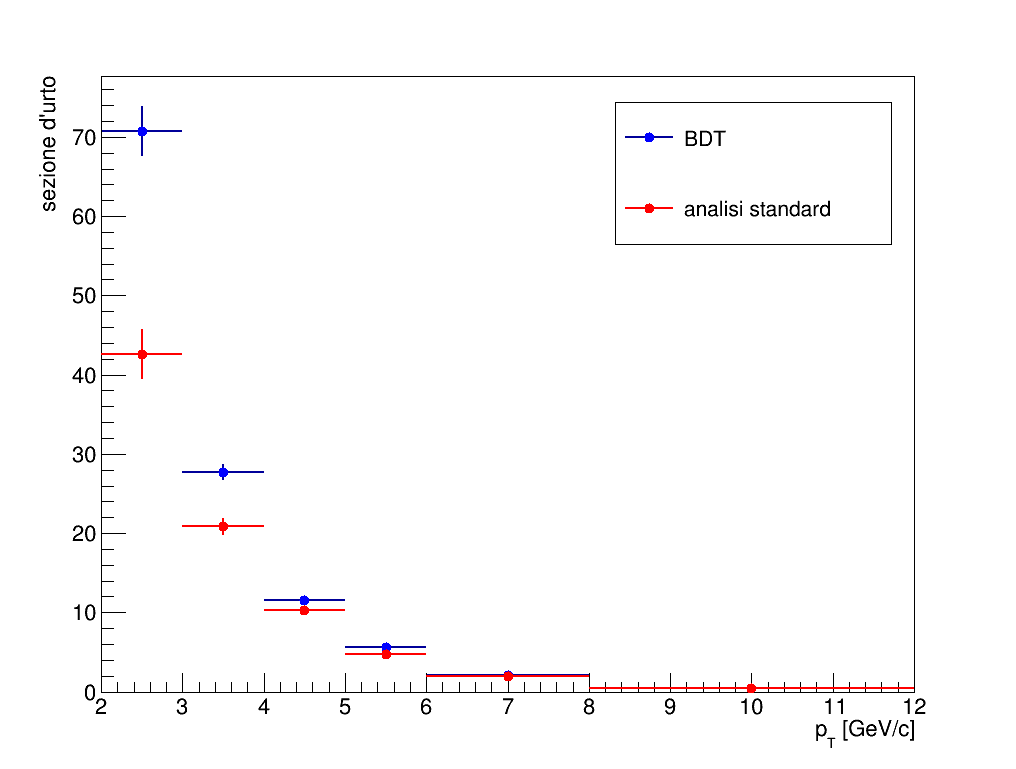
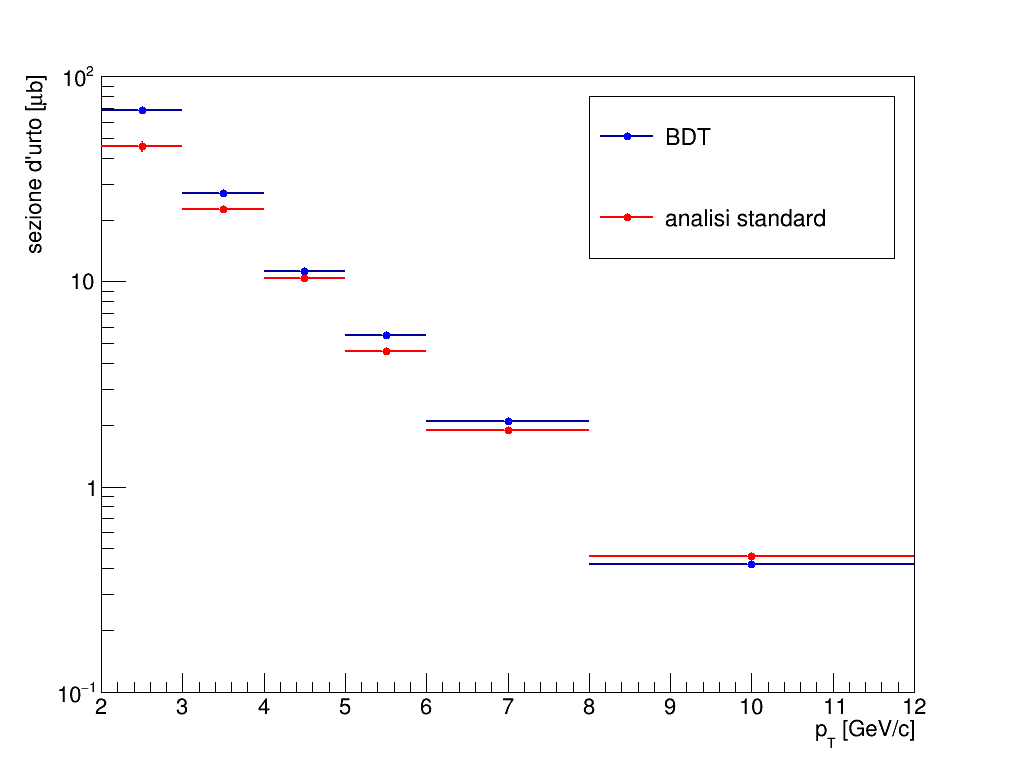
Updates from Overleaf

diff --git a/training&testing/training&testing.tex b/training&testing/training&testing.tex
@@ -4,17 +4,17 @@
 
 \section{Training}
 
-In questa sezione verr\`a descritta la fase di training del metodo di analisi multivariata del Boosted Decisione Tree (BDT), in particolare: il campione di dati che \`e stato utilizzato per il training, le variabili discriminatorie utilizzate come input per il BDT per separare il segnale dal fondo e la scelta dei parametri di configurazione del BDT. 
+In questa sezione verr\`a descritta la fase di training del metodo di analisi multivariata del Boosted Decision Tree (BDT), in particolare: il campione di dati che \`e stato utilizzato per il training, le variabili discriminatorie utilizzate come input per il BDT per separare il segnale dal fondo e la scelta dei parametri di configurazione del BDT. 
 
 \subsection{Campione di dati per il training}
 Come detto nel capitolo precedente per la fase di training del BDT è necessario un insieme di dati di cui sia nota la distinzione tra segnale e fondo. 
 
-Per il segnale è stato utilizzato un campione di dati ottenuto da una simulazione Monte Carlo,  in cui vengono generate collisioni protone-protone all'energia del centro di massa di 5~TeV e i mesoni D*+ prodotti vengono forzati a decadere nel canale di decadimento di interesse. In questo modo \`e certa l'identi\`a della candidata $D^{*+}$.
+Per il segnale è stato utilizzato un campione di dati ottenuto da una simulazione Monte Carlo,  in cui vengono generate collisioni protone-protone all'energia del centro di massa di 5~TeV e i mesoni $D^{*+}$ prodotti vengono forzati a decadere nel canale di decadimento di interesse. In questo modo \`e certa l'identi\`a della candidata $D^{*+}$.
 \\Al contrario, il campione di candidate per il fondo combinatoriale \`e stato selezionato dai dati raccolti da Alice\cite{dati_ALICE} (collisioni protone-protone a 5~TeV nel centro di massa) considerando candidate con valori della differenza tra la massa invariante della $D^{*+}$ e della $D^0$: $\Delta M > 147.8$ MeV/$c^2$  e $\Delta M < 143.0$ MeV/$c^2$, cio\`e candidate a destra e a sinistra del picco a 145 MeV/$c^2$ nella distribuzione di $\Delta M$ mostrata in figura \ref{fig:grafmassDstar2}. In questo modo si considerano i dati a circa $4 \sigma$ della Gaussiana che descrive il picco del segnale e si pu\`o essere sicuri di non includere anche parte del segnale.
-\\Si \`e scelto di utilizzare i dati stessi invece che una simulazione Monte Carlo in quanto \`e importante che il campione per il training sia il pi\`u possibile simile al campione da utilizzare. Il fondo preso dal Monte Carlo presenta delle differenze nella distribuzione delle variabili discriminatorie tali da non permettere una buona separazione tra segnale e fondo.
+\\Si \`e scelto di utilizzare i dati stessi invece che una simulazione Monte Carlo in quanto \`e importante che il campione per il training sia il pi\`u possibile simile al campione da utilizzare. Il fondo preso dal Monte Carlo, infatti, presenta delle differenze nella distribuzione delle variabili discriminatorie tali da non permettere una buona separazione tra segnale e fondo.
 
 L'analisi \`e stata svolta in diversi intervalli di impulso trasverso ($p_T$) delle candidate $D^{*+}$. L'impulso trasverso \`e l'impulso nella direzione perpendicolare ai fasci di protoni incidenti. Gli intervalli considerati sono [0,1], [1,2], [2,3], [3,4], [4,5], [5,6], [6,8], [8,12], [12,16], [16,24] misurati in GeV/c. 
-\\In figura \ref{fig:dati_training} è riportata la distribuzione di massa invariante $\Delta M = M(K,\pi,\pi)-M(K,\pi))$ dei campioni di segnale e fondo utilizzati per il training del BDT. 
+\\In figura \ref{fig:dati_training} è riportata la distribuzione di massa invariante $\Delta M = M(K,\pi,\pi)-M(K,\pi))$ dei campioni di segnale e fondo utilizzati per il training del BDT per l'intervallo di $p_T$ [3,4] GeV/c a titolo esemplificativo. 
 
     \begin{figure}[htbp] 
         \centering
@@ -43,7 +43,7 @@ La tabella \ref{Tab:dati_training} riporta la quantità di dati per il segnale e
 		\end{tabular}
 	\end{table}
 	
-Come \`e possibile vedere dalla tabella, il numero di eventi di fondo selezionati diminuisce al crescere del $p_T$. Questo e' dovuto ad una naturale diminuzione del fondo combinatoriale al crescere del $p_T$ della candidata $D^{*+}$. A causa del numero limitato di eventi di fondo disponibili per il training del modello, non e' stato possibile estendere l'analisi ad intervalli di impulso pi\`u alto. Infatti, come si vede dalla tabella, gi\`a nell'intervallo di $p_T&$ 8-12 GeV/c sono disponibili solo 900 eventi di fondo e solo 500 eventi di fondo erano disponibili per $p_T$ > 12 GeV/c. Infine, non e' stato possibile estendere l'analisi a $p_T < 1$ GeV/c perch\`e le D*+ con impulso $p_T < 1$ GeV/c erano state rigettate nel Monte Carlo considerato.
+Come \`e possibile vedere dalla tabella, il numero di eventi di fondo selezionati diminuisce al crescere del $p_T$. Questo \`e dovuto ad una naturale diminuzione del fondo combinatoriale al crescere del $p_T$ della candidata $D^{*+}$. A causa del numero limitato di eventi di fondo disponibili per il training del modello, non e' stato possibile estendere l'analisi ad intervalli di impulso pi\`u alto. Infatti, come si vede dalla tabella, gi\`a nell'intervallo di $p_T$ [8,12] GeV/c sono disponibili solo 900 eventi di fondo e solo 500 eventi di fondo erano disponibili per $p_T$ > 12 GeV/c. Infine, non e' stato possibile estendere l'analisi a $p_T < 1$ GeV/c perch\`e le $D^{*+}$ con impulso $p_T < 1$ GeV/c erano state rigettate nel Monte Carlo considerato.
 
 \subsection{Variabili discriminatorie per il training}
 L'analisi svolta in questa tesi \`e basata sullo studio del decadimento $D^{*+} \rightarrow D^0( \rightarrow K^- \pi^+)  \pi^+ $ attraverso l'utilizzo di metodi di analisi multivariati, basati sull'analisi combinata di pi\`u variabili, definite variabili discriminatorie. %In particolare si \`e usato il metodo del Boosting Decision Tree implementato nel TMVA di Root. 
@@ -51,9 +51,9 @@ L'analisi svolta in questa tesi \`e basata sullo studio del decadimento $D^{*+} 
  \item la distanza minima tra la traiettoria del Kaone $K^-$  e il vertice primario (PV) (\textbf{d0K});
                 \item la distanza minima tra la traiettoria del $\pi^+$ (prodotto dal decadimento della $D^0$) e il PV (\textbf{d0Pi});
             \item la distanza minima tra le traiettorie del $K^-$ e del $\pi^+$ (\textbf{DCA});
-            \item il coseno dell'angolo di puntamento, ovvero l'angolo tra la retta congiungente il PV e il vertice secondario (SV) e la direzione del $p_T$ della $D^{*+}$ (\textbf{cosThetaPoint});
+            \item il coseno dell'angolo di puntamento, ovvero l'angolo tra la retta congiungente il vertice primario (PV) e il vertice secondario (SV) e la direzione del $p_T$ della $D^{*+}$ (\textbf{cosThetaPoint})
             e la sua proiezione sul piano perpendicolare alla direzione dei fasci di protoni (\textbf{cosThetaPointXY});
-            \item la lunghezza di decadimento delle candidate $D^0$, ovvero la distanza di volo della $D^0$, normalizzata per il suo errore (\textbf{NormDecayLenght}) e la  proiezione sul piano perpendicolare alla direzione del fascio (\textbf{NormDecayLenghtXY});
+            \item la lunghezza di decadimento delle candidate $D^0$, ovvero la distanza di volo del mesone $D^0$, normalizzata per il suo errore (\textbf{NormDecayLenght}) e la  proiezione sul piano perpendicolare alla direzione del fascio (\textbf{NormDecayLenghtXY});
             \item il prodotto delle distanze minime tra le traiettorie del  $K^-$ e del $\pi^+$ dal PV (\textbf{d0d0});
             \item l'impulso del $\pi^+_{soft}$ (prodotto dal decadimento della $D^{*+}$) nella direzione perpendicolare a quella del fascio (\textbf{softPiPt})
             \item l'impulso del $\pi^+$ (prodotto dal decadimento della $D^0$) nella direzione perpendicolare a quella del fascio (\textbf{pTpi});
@@ -82,14 +82,14 @@ I grafici in figura \ref{fig:variabili_discr} riportano le distribuzioni di quat
 % \iffalse
 %    \fi 
     
-    Tra le variabili discriminatorie sono state introdotte le variabili legate all'identificazione delle particelle (PID) tramite la perdita di energia per ionizzazione $\frac{dE}{dx}$ nella TPC e tramite la misura del tempo di volo dal punto in cui si è formata la particella al rivelatore Time-Of-Flight (TOF).
+    Tra le variabili discriminatorie sono state introdotte le variabili legate all'identificazione delle particelle (PID) tramite la perdita di energia per ionizzazione $\frac{dE}{dx}$ nella Time-Projection-Chamber (TPC) e tramite la misura del tempo di volo dal punto in cui si è formata la particella al rivelatore Time-Of-Flight (TOF).
     \\In figura \ref{fig:BBnellaTPC} è riportata la distribuzione della perdita di energia per ionizzazione misurata dal rivelatore TPC per le particelle cariche prodotte in collisioni protone-protone con energia nel centro di massa $\sqrt{s} = 7 $ TeV, che è confrontata con l'andamento teorico determinato dalla curva di Bethe-Bloch per le diverse particelle.
     \\ Le variabili discriminatorie relative alla PID utilizzate sono:
         \begin{enumerate}[resume]
             \item la differenza tra la perdita di energia per ionizzazione misurata dalla TPC e la perdita di energia teorica determinata con la Bethe-Bloch per il $\pi^+$ prodotto dal decadimento della $D^0$: $n\sigma_{(\pi^+,TPC)}/\sigma_{TPC} = (\frac{dE}{dx}\mid_{m, \pi} \ - \ \frac{dE}{dx}\mid_{th, \pi} ) / \sigma_{TPC} \ $ dove $ \ \sigma_{TPC}$ è la risoluzione della Time-Projection-Chamber (\textbf{nSigmaTPCpi})
             \item la differenza tra la perdita di energia per ionizzazione misurata dalla TPC e la perdita di energia teorica data dalla Bethe-Bloch per il $K^-$: $n\sigma_{(K^-,TPC)}/\sigma_{TPC} = (\frac{dE}{dx}\mid_{m,K} \ - \ \frac{dE}{dx}\mid_{th,K} ) / \sigma_{TPC} \ $ (\textbf{nSigmaTPCK})
             \item la differenza tra il tempo di volo misurato dal rivelatore Time-Of-Flight e il tempo di volo teorico per il  $\pi^+$ prodotto dal decadimento della $D^0$: $ n\sigma_{(\pi^+,TOF)}/\sigma_{TOF} = (t_{TOF}\mid_{m,\pi} \ - \ t_{TOF}\mid_{th,\pi}) / \sigma_{TOF} \ $ dove $\sigma_{TOF}$ è la risoluzione del rivelatore Time-Of-Flight (\textbf{nSigmaTOFpi})
-            \item la differenza tra il tempo di volo misurato dal rivelatore Time-Of-Flight e il tempo di volo teorico per il  $K^-$: $n\sigma_{(K^-,TOF)}/\sigma_{TOF} = (t_{TOF}\mid_{m,K} \ - \ t_{TOF}\mid_{th,K})\sigma_{TOF} \ $ (\textbf{nSigmaTOFK})
+            \item la differenza tra il tempo di volo misurato dal rivelatore Time-Of-Flight e il tempo di volo teorico per il  $K^-$: $n\sigma_{(K^-,TOF)}/\sigma_{TOF} = (t_{TOF}\mid_{m,K} \ - \ t_{TOF}\mid_{th,K})/\sigma_{TOF} \ $ (\textbf{nSigmaTOFK})
         \end{enumerate}
     
         
@@ -102,7 +102,7 @@ I grafici in figura \ref{fig:variabili_discr} riportano le distribuzioni di quat
     \end{figure}
    
   
-  \subsection{Valutazione delle Variabili Discriminatorie}
+  \subsection{Valutazione delle variabili discriminatorie}
   
     L'utilizzo di variabili discriminatorie correlate tra loro generalmente peggiora le performance dell'algoritmo di apprendimento artificiale sia per quanto riguarda la capacit\`a di selezionare il segnale, sia per i tempi necessari per il training e l'applicazione dell'algoritmo.  
     \\Si \`e considerata, perci\`o la correlazione lineare tra le variabili discriminatorie utilizzate. In figura \ref{fig:correlazioneIn} \`e riportata la correlazione in percentuale tra tutte le variabili discriminatorie utilizzate nel primo set per il training sia per il segnale che per il fondo.
@@ -118,10 +118,10 @@ I grafici in figura \ref{fig:variabili_discr} riportano le distribuzioni di quat
     
  
     
-    Dalle figure \ref{fig:CorrelazioneF} si vede che la correlazione supera il $50 \%$ per alcune delle variabili. Questo \`e comprensibile se si considera che alcune delle variabili sono strettamente correlate, per esempio la lunghezza di decadimento \`e correlata alla sua proiezione sul piano trasverso. E' stato quindi individuato un insieme di variabili scorrelate da utilizzare per la fase di training come si pu\`o vedere in figura \ref{fig:CorrelazioneF}. Tale insieme comprende variabili topologiche scorrelate tra loro e le variabili relative all'identificazione di particelle. Le uniche variabili che presentano un certo grado di correlazione sono la proiezione della lunghezza di decadimento delle candidate $D^0$ sul piano trasverso alla direzione del fascio (NormDecaYLenghtXY), il prodotto delle distanze minime tra le traiettorie del $k^-$ e del $\pi^+$ (d0d0) e la distanza minima di approccio (DCA) ma si è ritenuta accettabile questa correlazione. 
+    Dalle figure \ref{fig:CorrelazioneF} si vede che la correlazione supera il $50 \%$ per alcune delle variabili. Questo \`e comprensibile se si considera che alcune delle variabili sono strettamente correlate, per esempio la lunghezza di decadimento \`e correlata alla sua proiezione sul piano trasverso. E' stato quindi individuato un insieme di variabili scorrelate da utilizzare per la fase di training come si pu\`o vedere in figura \ref{fig:CorrelazioneF}. Tale insieme comprende variabili topologiche scorrelate tra loro e le variabili relative all'identificazione di particelle. Le uniche variabili che presentano un certo grado di correlazione sono la proiezione della lunghezza di decadimento delle candidate $D^0$ sul piano trasverso alla direzione del fascio (NormDecaYLenghtXY), il prodotto delle distanze minime tra le traiettorie del $k^-$ e del $\pi^+$ e il PV (d0d0) e la distanza minima di approccio (DCA), ma si è ritenuta accettabile questa correlazione. 
  
-    \begin{figure}
-       \centering
+    \begin{figure}[h]
+       \centering 
        \includegraphics[width=0.48\textwidth]{training&testing/CorrelationMatrixS.png}
         \includegraphics[width=0.48\textwidth]{training&testing/CorrelationMatrixB.png}
        \caption{Correlazione lineare in percentuale tra le variabili discriminatorie del secondo set per il training del segnale e per il training del fondo.}
@@ -181,7 +181,7 @@ Per determinare la migliore configurazione del BDT (in termini di accuratezza de
     Si è ritenuto che l'opzione migliore, considerando sia il tempo necessario per l'analisi dati sia le performance dell'algoritmo, fosse di considerare alberi con profondità massima di 3 nell'analisi svolta in questa tesi.
     \end{itemize}
 
-\section{I risultati del Training}
+\subsection{I risultati del Training}
 Una volta identificato il campione da usare come segnale e fondo, le variabili discriminatorie scorrelate da fornire come input al modello e la configurazione del BDT si è proceduto con la fase di training. 
 \\L'algoritmo di analisi multivariata analizza le variabili discriminatorie per fornire un unico valore di output che permette di separare il segnale dal fondo, che nel resto del capitolo sarà chiamato \textit{BDT response}. Il grafico in figura \ref{fig:BDTresponse} mostra la distribuzione del BDT response calcolato per il campione di segnale (blu) e per il fondo (rosso) normalizzate allo stesso numero di eventi. Nella figura si vede che le distribuzioni del segnale e del fondo sono ben distinte e che solo nell'intervallo $-0.3 < BDT response < 0.25$ il fondo si sovrappone parzialmente al segnale. 
     \begin{figure}[htbp] 
@@ -197,13 +197,14 @@ Sia l'efficienza di selezione del segnale sia quelle di selezione del fondo vari
         sign \ = \ \frac{segnale}{\sqrt{segnale + fondo}}
     \end{equation}
 
-    \begin{figure}[htbp] 
+    \begin{figure}[h] 
         \centering
-        \includegraphics[width=0.7\linewidth]{training&testing/eff_significanza.png}
+        \includegraphics[width=0.7\linewidth]{training&testing/significanza.png}
         \caption{Efficienza di selezione del segnale in blu, del fondo in rosso e significanza in verde in funzione del valore della variabile BDT response per il training effettuato nell'intervallo di $p_T$ [3,4] GeV/c }
         \label{fig:efficienza}
     \end{figure}
 
+\clearpage
 \section{Testing} \label{testing}
     Una parte del campione di cui è nota la divisione tra segnale e fondo viene utilizzata per la fase di verifica del training stesso, detta \textit{fase di test}. 
     \\In questa fase si vuole controllare che non ci sia stato \textit{overtraining} durante la fase di training, ovvero che il BDT si sia adattato eccessivamente al campione di dati del training e non sia più descrittivo del fenomeno fisico che si vuole considerare nella  sua generalità. Se non c'è stato overtraining, ci si aspetta che la distribuzione del BDT response sia la stessa per i dati del training e quelli del test. 
@@ -256,8 +257,8 @@ Sia l'efficienza di selezione del segnale sia quelle di selezione del fondo vari
 Ottenute le distribuzioni del BDT response e gli andamenti delle efficienze e della significanza per i vari intervalli di $p_T$ considerati, si sono individuati i valori di taglio del BDT response per  discriminare tra segnale e fondo nella fase di applicazione del BDT. 
 \\Per scegliere il valore di taglio della variabile di output del BDT per separare segnale e fondo si sono provate due diverse opzioni:
     \begin{itemize}
-    \item $taglio \ a$: il punto di massimo della significanza, calcolata con un'opportuna scelta del rapporto segnale su fondo;
-    \item $taglio \ b$: punto in cui la distribuzione del BDT response per il segnale e per il fondo si incrociano %un valore più basso di $0.1$ del punto di massimo della significatività.
+    \item $taglio \ a$: punto di massimo della significanza, calcolata con un'opportuna scelta del rapporto segnale su fondo;
+    \item $taglio \ b$: punto in cui la distribuzione del BDT response per il segnale e per il fondo si incrociano. %un valore più basso di $0.1$ del punto di massimo della significatività.
     \end{itemize}
 La tabella \ref{Tab:tagli} riporta i valori del taglio presi in considerazione per ogni intervallo di $p_T$.
 

diff --git a/AnalisiDati/AnalisiDati.tex b/AnalisiDati/AnalisiDati.tex
@@ -21,6 +21,7 @@ Nel grafico \ref{fig:grafmassDstar1} non si vede nessun picco in corrispondenza 
         \caption{Distribuzione della differenza di massa invariante tra la $D^{*+}$ e la $D^0$, $\Delta M = M(\pi^+,\pi^+,K^-) - M(\pi^+,K^-)$, per l'intervallo di $p_T$ [6,8] GeV/c prima dell'applicazione del BDT}
         \label{fig:grafmassDstar2}
     \end{figure}
+
 Al contrario, considerando un intervallo di $p_T$ pi\`u alto, [6,8] GeV/c si osserva che nella distribuzione di massa inavariante \`e gi\`a visibile il picco delle candidate $D^{*+}$, come riportato in figura \ref{fig:grafmassDstar2}. Infatti, in una collisione protone-protone vengono prodotti pi\`u $\pi^+$ e $K^-$ con basso $p_T$ che con alto $p_T$, determinando un fondo combinatoriale maggiore quando si considerano le candidate $D^{*+}$ a basso $p_T$. Dal confronto tra la figura \ref{fig:grafmassDstar1} e \ref{fig:grafmassDstar2}, \`e subito evidente che l'utilizzo di un'analisi multivariata sia pi\`u utile per candidate a basso $p_T$ che ad alto $p_T$, dove l'utilizzo di poche selezioni sulle variabili topologiche permette comunque l'identificazione del mesone $D^{*+}$.
 
 \section{Applicazione del BDT} \label{applicazione}
@@ -34,7 +35,7 @@ Dopo aver proceduto al training e al test del BDT, l'algoritmo \`e stato applica
         \label{fig:diffDstarD0_3_4_BDT}
     \end{figure}
  
-Per l'intervallo di $p_T$ [1-2] GeV/c i dati della distribuzione di massa invariante delle candidate $D^{*+}$ selezionate con il metodo BDT non permettono di individuare il picco di segnale nella distribuzione di massa invariante. Per questo motivo non \`e stato possibile procedere con l'analisi per $p_T < 1$ GeV/c e perciò i risultati seguenti vengono mostrati solo per $p_T > 2$ GeV/c.   
+Per l'intervallo di $p_T$ [1-2] GeV/c i dati della distribuzione di massa invariante delle candidate $D^{*+}$ selezionate con il metodo BDT non permettono di individuare il picco di segnale nella distribuzione di massa invariante. Per questo motivo non \`e stato possibile procedere con l'analisi per $p_T < 2$ GeV/c e perciò i risultati seguenti vengono mostrati solo per $p_T > 2$ GeV/c.   
 
 Per determinare il numero di candidate $D^{*+}$ selezionate si è proceduto con un fit della distribuzione di massa invariante. 
 Il picco del segnale é descritto da una funzione Gaussiana nell'intervallo [0.144,0.147], che corrisponde a circa 3~$\sigma$.
@@ -54,13 +55,13 @@ In figura \ref{fig:fit_3_4_p} si mostra il fit della funzione Gaussiana, della f
     \begin{figure}[htpb] 
         \centering
         \includegraphics[width=0.8\linewidth]{AnalisiDati/fit_3_4.png}
-        \caption{Distribuzione di massa invariante $\Delta M = M(\pi^+,\pi^+,K^-) - M(\pi^+,K^-)$, per l'intervallo di $p_T$ [3,4] GeV/c. Sono riportate in rosso la funzione di fit Gaussiana, in verde la funzione di fit $f$ e in blu la somma delle due funzioni. }
+        \caption{Distribuzione di massa invariante $\Delta M = M(\pi^+,\pi^+,K^-) - M(\pi^+,K^-)$, per l'intervallo di $p_T$ [3,4] GeV/c. Sono riportate in rosso la funzione di fit Gaussiana, in verde la funzione di fit $f$ e in blu la somma delle due funzioni (funzione $totale$). }
         \label{fig:fit_3_4_p}
     \end{figure}
 
 Calcolando il $\chi^2$ e il numero di gradi di libert\`a ($NDL$) del fit della funzione $totale$ si \`e potuto valutare che per tutti gli intervalli di $p_T$ considerati vale $\frac{\chi^2}{NDL} < 2$. Inoltre, i risultati del fit mostrano che il picco di segnale \`e centrato nel valore $0.1455$ GeV/c, compatibile con il valore atteso. 
 
-Nei grafici in figura \ref{fig:fit} si riportano le distribuzione di massa invariante $\Delta M$ dei dati sperimentali dopo l'applicazione del BDT con i relativi fit della funzione $totale$ per tutti gli intervalli di $p_T$ considerati.
+Nei grafici in figura \ref{fig:fit} si riportano le distribuzione di massa invariante $\Delta M$ dei dati sperimentali dopo l'applicazione del BDT con i relativi fit della funzione $totale$ per gli intervalli di $p_T$ considerati: [2,3],[3,4],[4,5],[5,6],[6,8] e [8,12].
 
 
 \begin{figure}[h]      \centering
@@ -161,7 +162,7 @@ In figura \ref{fig:eff_acc} \`e riportato il prodotto dell'efficienza del BDT pe
 
  
 %sezione d'utro da modificare 
-\iffalse
+
 
 Infine è stata calcolata la sezione d'urto  della produzione del mesone $D^{*+}$  utilizzando la seguente formula:
 
@@ -169,9 +170,11 @@ Infine è stata calcolata la sezione d'urto  della produzione del mesone $D^{*+}
         \frac{d\sigma_{D^{*+}}}{dp_T} = \frac{1}{\Delta p_T} \frac{1}{BR} \frac{\frac{1}{2} N^{raw}(p_T) f_{prompt}(p_T)}{(\epsilon \times acc)(p_T) L_{int}}
     \end{equation}
     
-dove $N^{raw}$ è il segnale della $D^{*+}$ estratto con il fit della distribuzione di massa invariante. ; $f_{prompt}$ è la frazione di $D^{*+}$ primarie prodotte nell'interazione protone-protone e non provenienti dal decadimento di altre particelle più pesanti che sono ,invece, secondarie (le candidate $D^{*+}$ selezionate contengono una misura delle due componenti); $\epsilon$ è l'efficienza dell'algoritmo moltiplicata per l'efficienza di ricostruzione (di cui è riportato il grafico in figura \ref{fig:efficienza_BDT}); $acc$ è l'accettanza geometrica del rivalatore; $BR$ è il branching ratio del canale di decadimento considerato in questa tesi $D^{*+} \rightarrow \pi^+ D^0(\rightarrow \pi^+ K^-)$ e vale $BR = 0.67 * 0.038 = 0.263 $. Il fattore $\frac{1}{2}$ tiene conto del fatto che vengono selezionate sia le particelle sia le antiparticelle, mentre si vuole considerare la sezione d'urto della sola particella.  
-\\In figura \ref{fig:sezioneUrto} si mostra il grafico della sezione d'urto di produzione del mesone $D^{*+}$ in collisioni protone-protone ad un energia del centro di massa di 5 TeV ottenuto dall'analisi multivariata paragonato alla sezione d'urto ottenuta dell'analisi standard di ALICE. Si vede che i valori della sezione d'urto sono compatibili per valori $p_T > 4$ GeV/c mentre per $p_T < 4$ GeV/c la sezione d'
- 
+dove $N^{raw}$ è il segnale della $D^{*+}$ estratto con il fit della distribuzione di massa invariante; $f_{prompt}$ è la frazione di $D^{*+}$ primarie prodotte nell'interazione protone-protone e non provenienti dal decadimento di altre particelle più pesanti, che sono dette secondarie (le candidate $D^{*+}$ selezionate contengono una misura delle due componenti); $\epsilon$ è l'efficienza dell'algoritmo (di cui \`e riportato il grafico in figura \ref{fig:efficienza_BDT}) moltiplicata per l'efficienza di ricostruzione; $acc$ è l'accettanza geometrica del rivelatore; $BR$ è il branching ratio del canale di decadimento considerato in questa tesi ($D^{*+} \rightarrow \pi^+ D^0(\rightarrow \pi^+ K^-)$) e vale $BR = 0.67 * 0.038 = 0.263 $. Il fattore $\frac{1}{2}$ tiene conto del fatto che vengono selezionate sia le particelle sia le antiparticelle, mentre si vuole considerare la sezione d'urto della sola particella.  
+\\In figura \ref{fig:sezioneUrto} si mostra il grafico della sezione d'urto di produzione del mesone $D^{*+}$ in collisioni protone-protone ad un energia del centro di massa di 5 TeV ottenuto dall'analisi multivariata paragonato alla sezione d'urto ottenuta dall'analisi standard di ALICE. Le sezioni d'urto ottenute con i due metodi non sono compatibili considerando soltanto gli errori statistici e differiscono al massimo del 20\% con la differenza massima nell'intervallo []2,3] GeV/c. 
+La differenza osservata potrebbe essere legata all'estrazione del segnale tramite la procedura di fit, ad una non completa rimozione del fondo nell'intervallo di $\Delta$M sotto il picco del segnale, oppure all'approssimazione nel calcolo della sezione d'urto in cui il termine $f_{prompt}$ \`e stato considerato uguale nei due casi. 
+
+Se prendessimo in considerazione gli errori sistematici legati alla procedura di estrazione del segnale, al calcolo dell'efficienza di selezione del segnale e all'efficienza di tracciamento e di identificazione delle particelle, che non sono stati calcolati nell'ambito di questa tesi, le due sezioni d'urto risulterebbero compatibili entro gli errori sistematici \cite{dati_ALICE}).
  
  \begin{figure}[htbp] 
         \centering
@@ -180,16 +183,6 @@ dove $N^{raw}$ è il segnale della $D^{*+}$ estratto con il fit della distribuzi
         \label{fig:sezioneUrto}
     \end{figure}
    
-    
-%modificare
-    
-%\\Dai grafici di confronto riportati in questa sezione si nota che l'analisi del BDT fornisce risultati migliori rispetto all'analisi standard di ALICE per valori bassi di $p_T$ ($p_T$ < 5 GeV/c), mentre all'aumentare del $p_T$ l'analisi standard di ALICE fornisce risultati migliori. Questo pu\`o essere spiegato principalmente considerando due fattori:
-    \begin{itemize}
-        \item il fatto che i campioni di dati utilizzati per la fase di training del BDT sia per il segnale che per il fondo hanno una quantit\'a di dati maggiore negli intervalli con $p_T$ pi\`u basso considerati e che questa quantit\`a di dati diminuisce all'aumentare del $p_T$. Gli algoritmi di analisi multivariata come il BDT funzionano al meglio nel risolvere problemi con grandi quantit\`a di dati, mentre incontrano difficolt\`a se il campione di dati analizzato \`e piccolo. Questo spiega perch\`e l'algoritmo di BDT restituisce risultati migliori per valori di $p_T < 5$ GeV/c;
-        \item il fatto che all'aumentare del $p_T$ il fondo combinatoriale nelle distribuzioni di massa invariante diminuisce. Questo rende il picco del segnale delle candidate $D^{*+}$ pi\`u riconoscibile e quindi anche pi\`u facile da selezionare manualmente attraverso le variabili discriminatorie come viene fatto nell'analisi standard di ALICE. 
-    \end{itemize}
- 
-\fi 
     
 Per migliorare i risultati ottenuti con l'algoritmo di BDT per valori di $p_T > 5$ GeV/c, si potrebbe provare ad utilizzare un campione di dati pi\`u grande rispetto a quello utilizzato in questa tesi, cos\`i che l'algoritmo di BDT possa apprendere meglio nella fase di training come distinguere il segnale dal fondo. 
 \\Inoltre per gli intervalli di $p_T > 5$ GeV/c si potrebbe provare ad utilizzare dei valori di taglio pi\`u bassi rispetto a quelli utilizzati in questa tesi cos\`i da preservare una maggiore quantit\`a di segnale.

diff --git a/TMVA/TMVA.tex b/TMVA/TMVA.tex
@@ -4,11 +4,11 @@
 In questa tesi le candidate $D^{*+}$ sono state selezionate utilizzando algoritmi di apprendimento artificiale. L'apprendimento artificiale (in inglese "machine larning") \`e un meccanismo che permette ad una macchina di migliorare le proprie prestazioni nel tempo. \cite{sitoMachineLearning}
 \\L'apprendimento artificiale consiste nello sviluppo di algoritmi che possono imparare dai dati e in base ad essi prendere decisioni o fare previsioni. L'apprendimento artificiale può essere di tipo supervisionato o non supervisionato. Nel primo caso per addestrare l'algoritmo si utilizzano degli esempi di cui si fornisce anche la "risposta". In questo modo vi è una sorta di feedback su cui si basa l'addestramento dell'algoritmo. Nel caso non supervisionato, al contrario, vengono forniti solo dei dati e sarà l'algoritmo stesso a decidere indipendentemente come classificarli. 
 
-In particolare, in questa tesi \`e stato utilizzato un metodo di analisi multivariata, cioè un metodo di analisi statistica basato sull'analisi congiunta di più variabili. L'\textit{analisi multivariata}  appartiene al caso dell'apprendimento artificiale supervisionato e combina una serie di variabili discriminatorie di input in un'unica variabile discriminatoria finale, chiamata \textit{classifier output}.
+In particolare, in questa tesi \`e stato utilizzato un metodo di \textit{analisi multivariata}, cioè un metodo di analisi statistica basato sull'analisi congiunta di più variabili. L'analisi multivariata appartiene al caso dell'apprendimento artificiale supervisionato e combina una serie di variabili discriminatorie di input in un'unica variabile discriminatoria finale, chiamata \textit{classifier output}.
 \\In questa tesi si affronta un \textit{problema di selezione}, ovvero si cerca un segnale raro in un insieme composto principalmente da eventi di fondo, quindi il rapporto segnale su fondo \`e molto minore di 1, perciò un'analisi multivariata potrebbe portare a performance migliori nell'identificazione del segnale.
 Per l'analisi svolta in questa tesi \`e stato utilizzato il "TMVA" \cite{TMVA} (Tool for MultiVariate Analysis), che \`e uno strumento incluso nel framework ROOT\cite{Root} che implementa diversi metodi di analisi multivariata.
 
-L'analisi effettuata con i metodi di apprendimento artificiale si struttura in due fasi principali:
+L'analisi effettuata con i metodi di apprendimento artificiale supervisionato si struttura in due fasi principali:
     \begin{itemize}
         \item Training: in questa fase l'algoritmo viene istruito a separare il segnale dal fondo fornendo un campione di dati di cui è noto quali rappresentino il segnale e quali il fondo. Vengono anche indicate quali sono le variabili discriminatorie che l'algoritmo deve usare per separare i due insiemi;
         \item Applicazione: nella fase di applicazione viene utilizzato quanto appreso dalla macchina nella fase di training per selezionare e dividere il segnale dal fondo.
@@ -29,7 +29,7 @@ L'analisi effettuata con i metodi di apprendimento artificiale si struttura in d
     
     Un vantaggio degli alberi decisionali è che sono facilmente visualizzabili ed è altrettanto semplice ricondursi al significato fisico delle selezioni operate. Inoltre sono perlopiù insensibili alla presenza di variabili poco discriminanti. Lo svantaggio principale è che sono fortemente sensibili alle fluttuazioni statistiche dei dati utilizzati per il training. Questo problema viene risolto con il "boosting" di cui si parla nella sezione  \ref{Boosting}.
     \\La prima divisione dei dati, chiamata root node, viene scelta individuando la variabile e il relativo valore di selezione che meglio divide i dati tra segnale e fondo. L'indice di separazione utilizzato in questa tesi è quello di Gini \footnote{L'indice di Gini è definito come: $p (1-p)$, dove $p$ è la purezza del segnale, che è il rapporto tra il numero di eventi segnale e il numero di eventi totale}. A questo punto si considera singolarmente ognuno dei due rami e si sceglie la selezione sulla variabile che massimizza l'aumento dell'indice di separazione.
-    \\Infine è necessario fare un controllo per l'\textit{overtraining}, ovvero la possibilità che l'albero decisionale sia troppo dipendente dal campione di dati utilizzati nella fase di training e non sia più descrittivo del fenomeno fisico nella sua generalità. Per fare ciò si fa classificare all'algoritmo delBDT in segnale e fondo un campione di dati detto campione di test, di cui si consce a priori se siano segnale o fondo.
+    \\Infine è necessario fare un controllo per l'\textit{overtraining}, ovvero la possibilità che l'albero decisionale sia troppo dipendente dal campione di dati utilizzati nella fase di training e non sia più descrittivo del fenomeno fisico nella sua generalità. Per fare ciò si fa classificare all'algoritmo del BDT in segnale e fondo un campione di dati detto campione di test, di cui si consce a priori se siano segnale o fondo.
  
     \subsection{Boosting} \label{Boosting}
     Per migliorare le performance dell'algoritmo di apprendimento artificiale si pu\`o utilizzare il meccanismo del \textit{boosting}. Questo viene utilizzato nel caso degli alberi decisionali per renderli più stabili rispetto alle fluttuazioni statistiche del set di dati del training e per migliorarne la capacit\`a di discriminare tra segnale e fondo. Per fare ciò l'algoritmo ripete automaticamente il training pi\`u volte utilizzando lo stesso campione di dati e ad ogni ripetizione assegna pesi diversi ai dati classificati erroneamente.

diff --git a/introParticelle/introParticelle.tex b/introParticelle/introParticelle.tex
@@ -1,4 +1,4 @@
-\chapter{Lo studio dei mesoni composti da quark charm }
+\chapter{Lo studio dei mesoni conteneti quark charm }
 
 \section{Il Modello Standard}
 Per quanto riguarda la fisica delle particelle, il modello che attualmente ne descrive i fondamenti è il \textit{Modello Standard}. In questo modello le particelle fondamentali sono divise tra fermioni e bosoni. 
@@ -15,9 +15,9 @@ Nella parte sinistra della figura si trovano i \textit{fermioni} divisi tra quar
 \section{I mesoni con charm nello studio del QGP}
 Il \textit{Plasma di Quark e Gluoni} (QGP) è uno stato della materia in cui i quark e i gluoni non sono confinati negli adroni dalla forza nucleare forte. Gli adroni formati da quark pesanti (come il charm) sono un buono strumento per studiare il QGP formatosi dalla collisione di ioni pesanti. Infatti, il quark charm ha un tempo di formazione pari a $\frac{\hbar}{2m_qc^2} \leq 0.1 \ \mathrm{fm/c} \simeq 0.3 10^{-24}$ s che \`e minore del tempo di formazione del QGP $\simeq (0.3 - 1.5) \ \mathrm{fm/c} \simeq 10^{-24} - 0.5 \ 10^{-23}$ s. Quindi i quark charm, prodotti prima della formazione del QGP, attraversano il QGP stesso e interagiscono con i suoi componenti permettendo di avere informazioni sulle propriet\`a del QGP stesso. Inoltre, i quark pesanti preservano la loro identit\`a mentre attraversano il QGP e infine adronizzano formando adroni che possono essere osservati dai rivelatori di ALICE. I mesoni D, che verranno presi in considerazione in questa tesi, sono formati da un quark charm e un quark pi\`u leggero e costituiscono pertanto delle buone osservabili per lo studio del QGP. 
 
-È di fondamentale importanza studiare la produzione di adroni composti da quark pesanti non solo in collsioni di ioni, ma anche in collisioni protone-protone in cui non ci si aspetta la formazione del QGP.
+È di fondamentale importanza studiare la produzione di adroni composti da quark pesanti non solo in collsioni di ioni pesanti, ma anche in collisioni protone-protone in cui non ci si aspetta la formazione del QGP.
 Infatti soltanto dal paragone della produzione nei due sistemi \`e possibile ricavare informazioni sull'interazione dei quark charm con il QGP. 
-\\Inoltre la misura di produzione di mesoni D in collisioni protone-protone rappresenta un'ottima verifica per la Cromo-Dinamica Quantistica (QCD), teoria che permette di calcolare teoricamente la produzione di quark charm e la successiva adronizzazione.
+\\Inoltre, la misura di produzione di mesoni D in collisioni protone-protone rappresenta un'ottima verifica per la Cromo-Dinamica Quantistica (QCD), teoria che permette di calcolare la produzione di quark charm e la successiva adronizzazione.
 
 \section{Il mesone $D^{*+}$} \label{mesoneD}
 In questa tesi si \`e considerato in particolare il mesone $D^{*+}$, che \`e formato da un quark charm $c$ e un anti-quark down $\overline{d}$ ed ha momento angolare totale 1, e la sua antiparticella $D^{*-}$. Il mesone $D^{*+}$ ha una massa di ($2010.26 \pm 0.05$) MeV/$c^2$ e vita media $ \tau = (7.89 \pm 0.11) {10^{-21}}$~ s~\cite{PDG}. Il decadimento studiato in questa tesi \`e il decadimento forte:
@@ -66,7 +66,7 @@ dove $E_{\pi^+}$ e $E_{K^-}$ sono le energie del pione e del kaone, $p_{\pi^+}$ 
     \begin{equation}
         M(K^- \pi^+ \pi_{soft}) = ({E_{\pi^+}+E_{K^-}+E_{\pi_{soft}}})^2 - ({p_{\pi^+}+p_{K^-}+p_{\pi_{soft}}})^2
     \end{equation}
-Dove $E_{\pi_{soft}}$ \`e l'energia del $\pi_{soft}$ e $p_{\pi_{soft}}$ \`e l'impulso del $\pi_{soft}$.
+Dove $E_{\pi_{soft}}$ \`e l'energia del $\pi_{soft}$ e $p_{\pi_{soft}}$ il suo impulso.
 \\Il segnale relativo al mesone $D^{*+}$ si studia preferibilmente usando la variabile $\Delta M$
   \begin{equation}
        \Delta M = M (K^- \pi^+ \pi^+) - M(K^- \pi^+)

diff --git a/conclusioni/conclusioni.tex b/conclusioni/conclusioni.tex
@@ -1,6 +1,10 @@
 \chapter{Conclusioni}
 
 In questa tesi sono stati analizzati i dati raccolti da ALICE in collisioni protone-protone ad LHC all'energia del centro di massa di 5~TeV e si è studiata la produzione del mesone $D^{*+}$ contenente un quark charm attraverso la ricostruzione del decadimento $D^{*+} \rightarrow D^{0}(\rightarrow \pi^+ K^-)\pi^+$. L'analisi è stata svolta utilizzando un algoritmo di analisi multivariata, il Boosted Decision Tree.
-\\Il lavoro di questa tesi ha mostrato che \`e possibile utilizzare questi algoritmi per l'identificazione del mesone $D^{*+}$ e che l'utilizzo di questa tecnica risulta pi\`u utile quando si considera un basso impulso trasverso, caso in cui il rapporto segnale su fondo \`e minore di 1, piuttosto che alto impulso trasverso, dove semplici selezioni topologiche permettono comunque l'identificazione del mesone $D^{*+}$.
-\\I risultati ottenuti con l'algoritmo del BDT sono stati paragonati con quelli ottenuti selezionando i mesoni $D^{*+}$ con selezioni sulle variabili topologiche. In particolare, si osserva che con il metodo usato in questa tesi la significanza e l'efficienza sono pi\`u alte di quelle ottenute con il metodo delle selezioni topologiche per $p_T <$ 5 GeV/c confermando che il metodo multivariato risulta particolarmente utile a basso impulso trasverso.
-\\I risultati ottenuti con l'utilizzo del BDT potrebbero essere migliorati avendo a disposizione un campione di dati pi\`u grande per la fase di training, questo permetterebbe anche di estendere l'intervallo di impulso trasverso in cui \`e stata eseguita l'analisi. Inoltre uno studio più sistematico del valore del taglio della variabile BDT response potrebbe portare dei risultati migliori in quanto a significanza e sezione d'urto del mesone $D^{*+}$.
+
+Il lavoro di questa tesi ha mostrato che \`e possibile utilizzare questi algoritmi per l'identificazione del mesone $D^{*+}$ e che l'utilizzo di questa tecnica risulta pi\`u utile quando si considerano candidate con un basso impulso trasverso ($p_T < 5 $~GeV/c) in quanto in questo caso il rapporto segnale su fondo \`e minore di 1. Al contrario, i metodi di analisi multivariata non sono particolarmente utili ad alto impulso trasverso delle candidate, in quanto in questo caso le selezioni topologiche permettono comunque l'identificazione del mesone $D^{*+}$. Infatti, dal paragone dei risultati ottenuti applicando l'analisi multivariata con l'algoritmo del BDT con quelli ottenuti selezionando i mesoni $D^{*+}$ con selezioni sulle variabili topologiche si osserva che con il metodo usato in questa tesi la significanza e l'efficienza per $p_T <$ 5 GeV/c sono pi\`u alte di quelle ottenute con il metodo delle selezioni topologiche. Per valori di $p_T >$ 5 GeV/c il metodo basato sulla selezione di variabili topologiche risulta pi\`u vantaggioso.
+
+I risultati ottenuti con l'utilizzo del BDT potrebbero essere ulteriormente migliorati: uno studio sistematico del valore del taglio della variabile BDT response potrebbe ulteriormente aumentare la significanza e l'efficienza di selezione del mesone $D^{*+}$; sarebbe interessante estendere la misura ad intervalli di $p_T < 2$~GeV/c che non e' stato considerato in questa tesi ma in cui ci si aspetta delle buone performance dell'analisi multivariata; un campione di dati per il training pi\`u grande permetterebbe di estendere l'intervallo di impulso trasverso in cui \`e stata eseguita l'analisi.
+
+Considerando i risultati ottenuti in questa tesi sar\`a interessante in futuro applicare lo stesso metodo per lo studio della produzione del mesone $D^{*+}$ in collisioni piombo-piombo in cui il rapporto segnale su fondo a basso $p_T$ \`e ancora peggiore che nel caso di collisioni protone-protone.  
+

diff --git a/introduzione/introduzione.tex b/introduzione/introduzione.tex
@@ -1,11 +1,11 @@
 \chapter*{Introduzione}
 \addcontentsline{toc}{chapter}{Introduzione}  
-L'obbiettivo di questa tesi è quello di studiare la produzione di un mesone contenente un quark charm, il mesone $D^{*+}$,  in collisioni protone-protone, utilizzando i dati raccolti dall'esperimento ALICE (A Large Ion Collider Experiment) ad LHC (Large Hadron Collider) del Cern. Lo studio del mesone $D^{*+}$ viene ricostruito attraverso il decadimento $D^{*+} \rightarrow D^0 \pi^+$. Per l'analisi si utilizzeranno i dati relativi a 985~milioni di collisioni protone-protone ad un'energia nel centro di massa di 5~TeV.
+L'obbiettivo di questa tesi è quello di studiare la produzione di un mesone contenente un quark charm, il mesone $D^{*+}$,  in collisioni protone-protone, utilizzando i dati raccolti dall'esperimento ALICE (A Large Ion Collider Experiment) ad LHC (Large Hadron Collider) del Cern. Il mesone $D^{*+}$ viene ricostruito attraverso il decadimento $D^{*+} \rightarrow D^0(\rightarrow \pi^+ K^-) \pi^+$. Per l'analisi si utilizzeranno i dati relativi a 985~milioni di collisioni protone-protone ad un'energia nel centro di massa di 5~TeV.
 
-Lo studio della produzione del mesone $D^{*+}$ presentato in questa tesi verrà condotto con un nuovo metodo di analisi multivariata e in particolare utilizzando un algoritmo chiamato Boosted Decision Tree (BDT). Per l'analisi in questa tesi si utilizza il TMVA \cite{TMVA} (Tool for MultiVariate Analysis), incluso nel framework di Root \cite{Root}. 
+Lo studio della produzione del mesone $D^{*+}$ presentato in questa tesi verrà condotto con un nuovo metodo di analisi multivariata e in particolare utilizzando un algoritmo chiamato Boosted Decision Tree (BDT). Per l'analisi in questa tesi si utilizza il TMVA \cite{TMVA} (Tool for MultiVariate Analysis), incluso nel framework di Root\cite{Root}. 
 
 I risultati ottenuti verranno confrontati con i risultati pubblicati da ALICE ottenuti con un metodo di identificazione del mesone $D^{*+}$  basato su selezioni applicate alle variabili cinematiche e topologiche del decadimento \cite{dati_ALICE}. 
-L'identificazione del mesone $D^{*+}$ è un tipico problema di selezione, in cui si cerca un segnale raro in un campione composto principalmente da eventi di fondo. L'utilizzo di algoritmi di apprendimento artificiale (machine learning) come il BDT può essere utile per risolvere problemi di selezione. Sar\`a quindi interessante valutare l'utilità di algoritmi di analisi multivariata per l'analisi dati di problemi di selezione di questo tipo ad ALICE.
+L'identificazione del mesone $D^{*+}$ è un tipico problema di selezione, in cui si cerca un segnale raro in un campione composto principalmente da eventi di fondo. L'utilizzo di algoritmi di analisi multivariata come il BDT può essere utile per risolvere problemi di selezione. Sar\`a quindi interessante valutare l'utilità di algoritmi di analisi multivariata per l'analisi dati di problemi di selezione di questo tipo ad ALICE.
 
 La tesi \`e strutturata nel modo seguente:
     \begin{itemize}

diff --git a/main.tex b/main.tex
@@ -54,14 +54,14 @@
 
 
 %________________PAGINA CITAZIONE_____________________________
-\thispagestyle{empty} 
-\begin{flushright}%{0.65\textwidth}
-\null \vspace {\stretch {1}}
+%\thispagestyle{empty} 
+%\begin{flushright}%{0.65\textwidth}
+%\null \vspace {\stretch {1}}
 
-CITAZIONE DA TROVARE
+%CITAZIONE DA TROVARE
 
-\vspace {\stretch {2}}\null
-\end{flushright}
+%\vspace {\stretch {2}}\null
+%\end{flushright}
 
 
 
